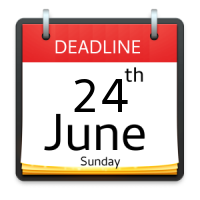
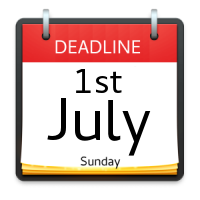
edited

Changed region(s): [[0.21, 0.33, 0.75, 0.78]]

diff --git a/index.html b/index.html
@@ -116,7 +116,7 @@ Examples of previous CIBB edition post-publications:
 
 <img src="https://raw.githubusercontent.com/davidechicco/cibb2018specialsession/master/deadline3.png" align="right" width="150">
 
-Paper submission deadline: <font color="red"><strong>24th June 2018</strong></font>   </br>
+Paper submission deadline: <font color="red"><strong>1st July 2018</strong></font>   </br>
 
 Acceptance notification: 9th July 2018  </br>
 
